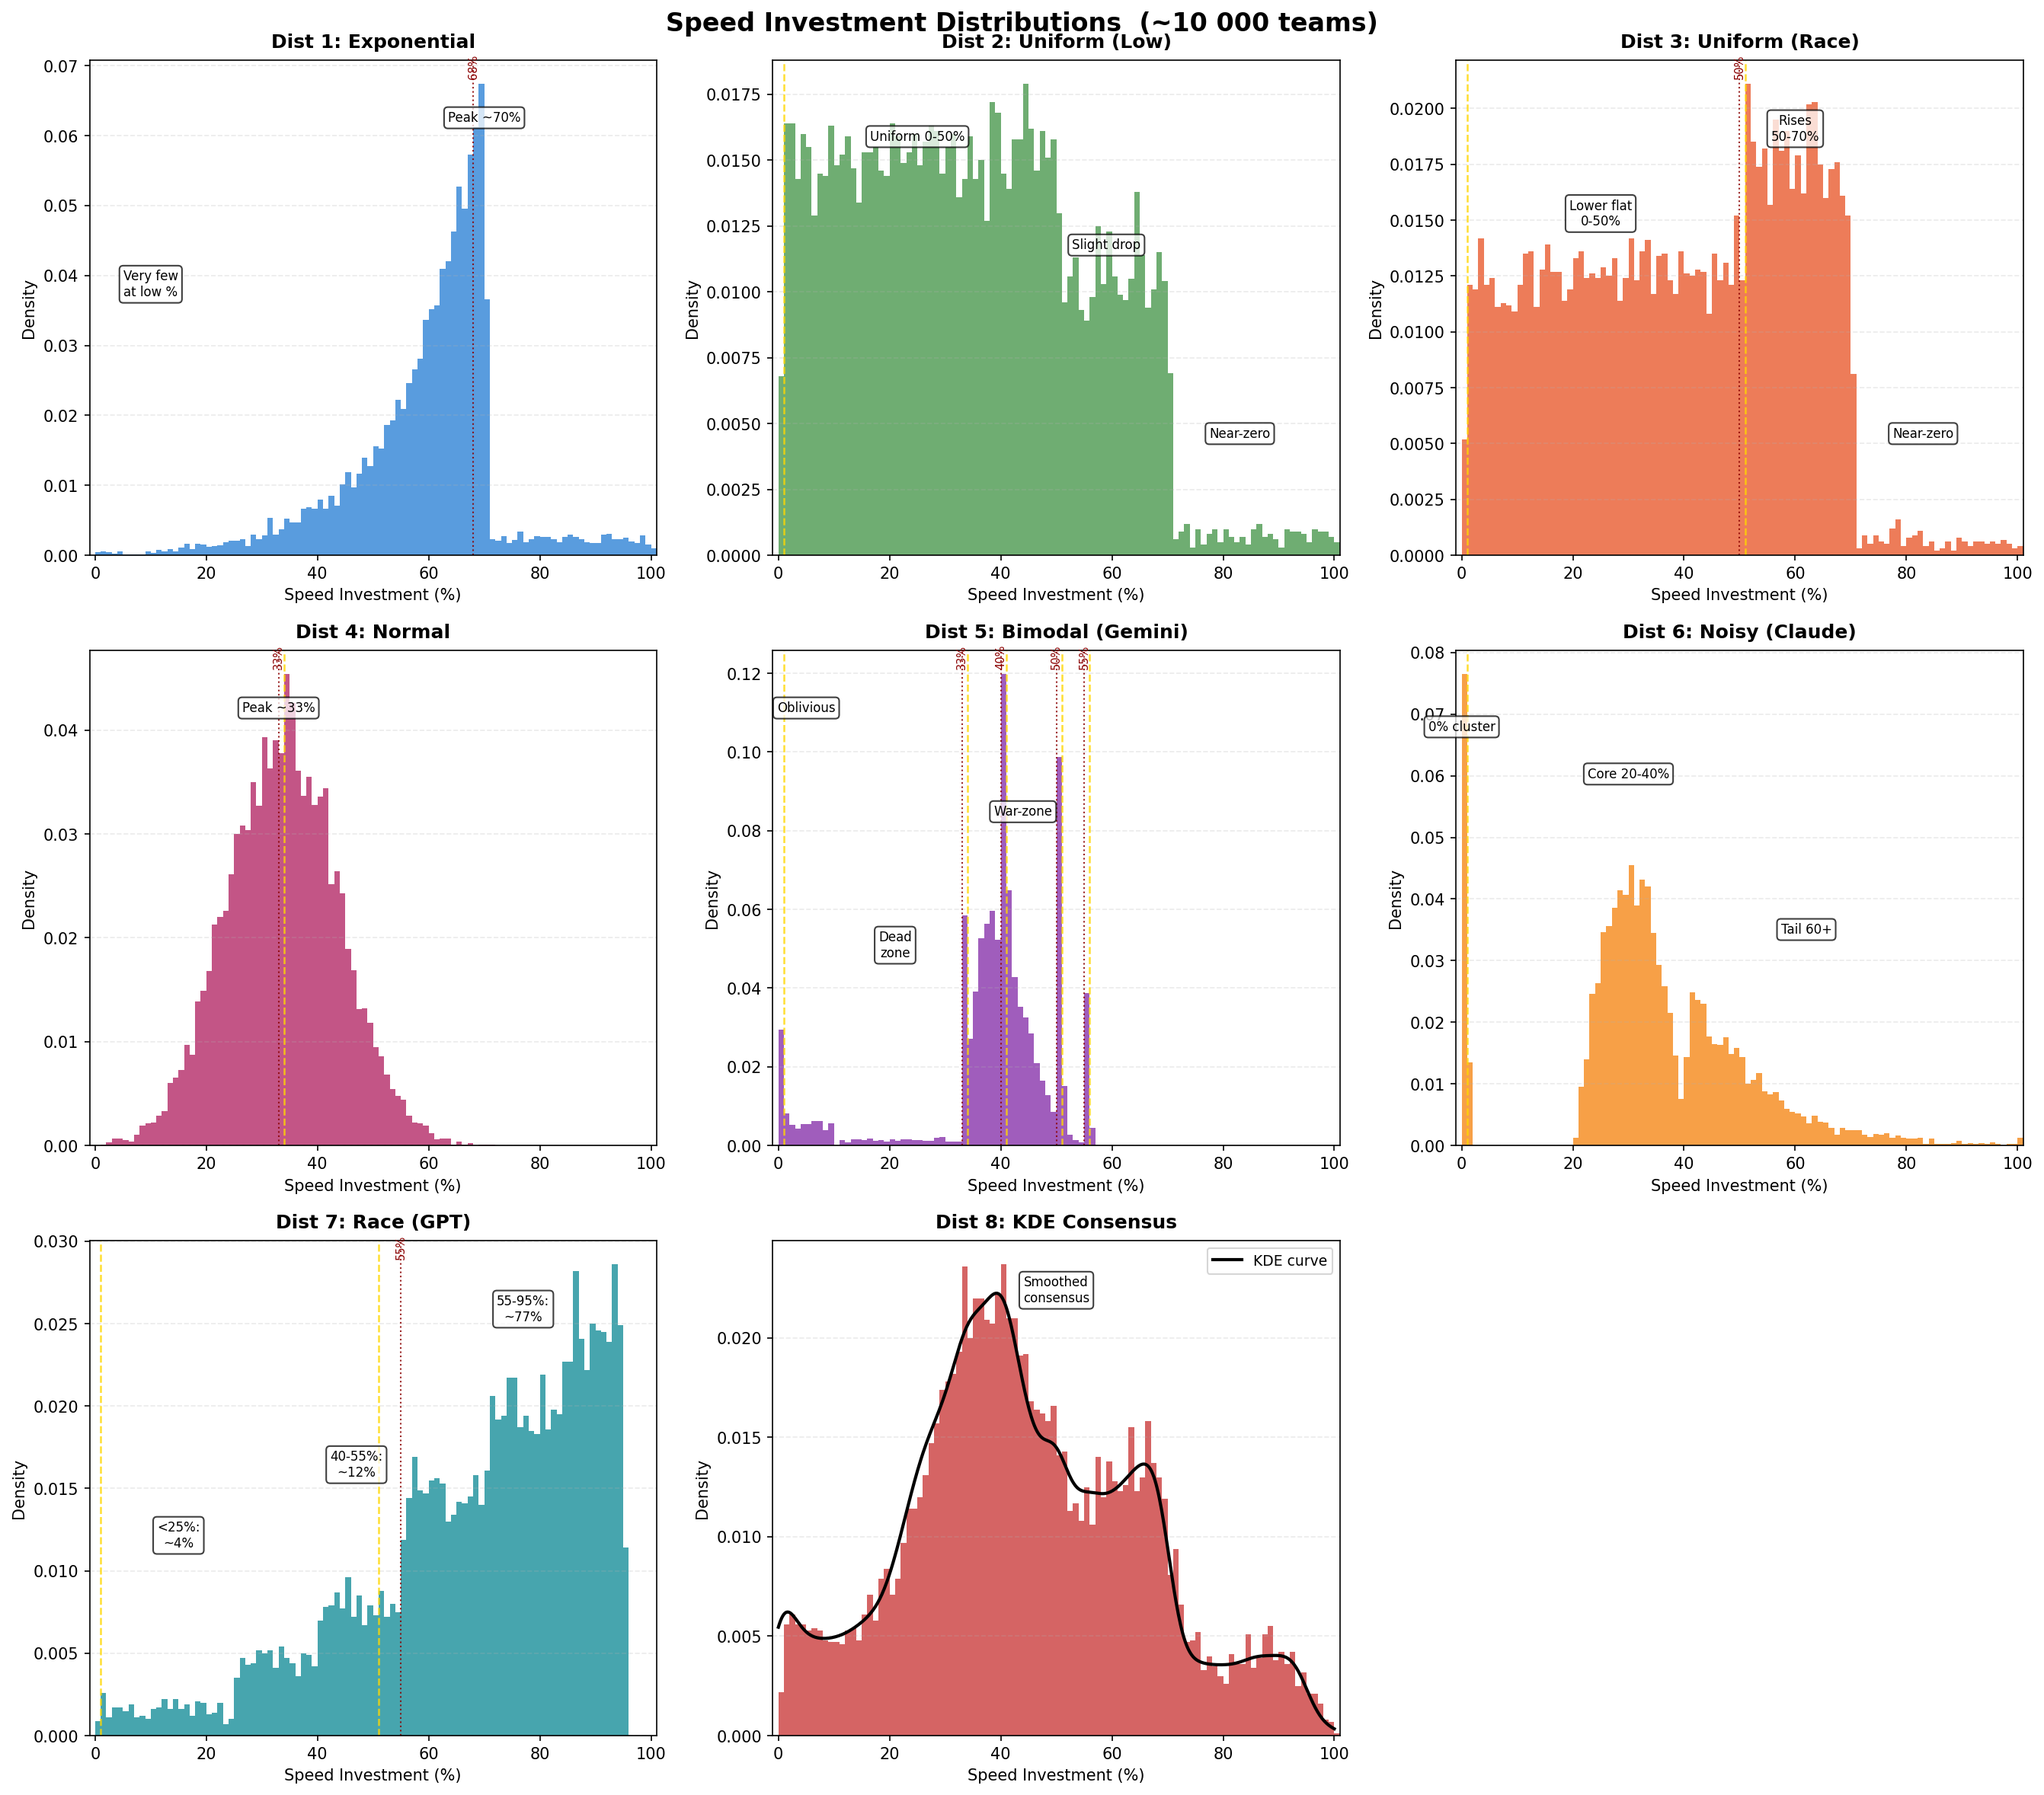
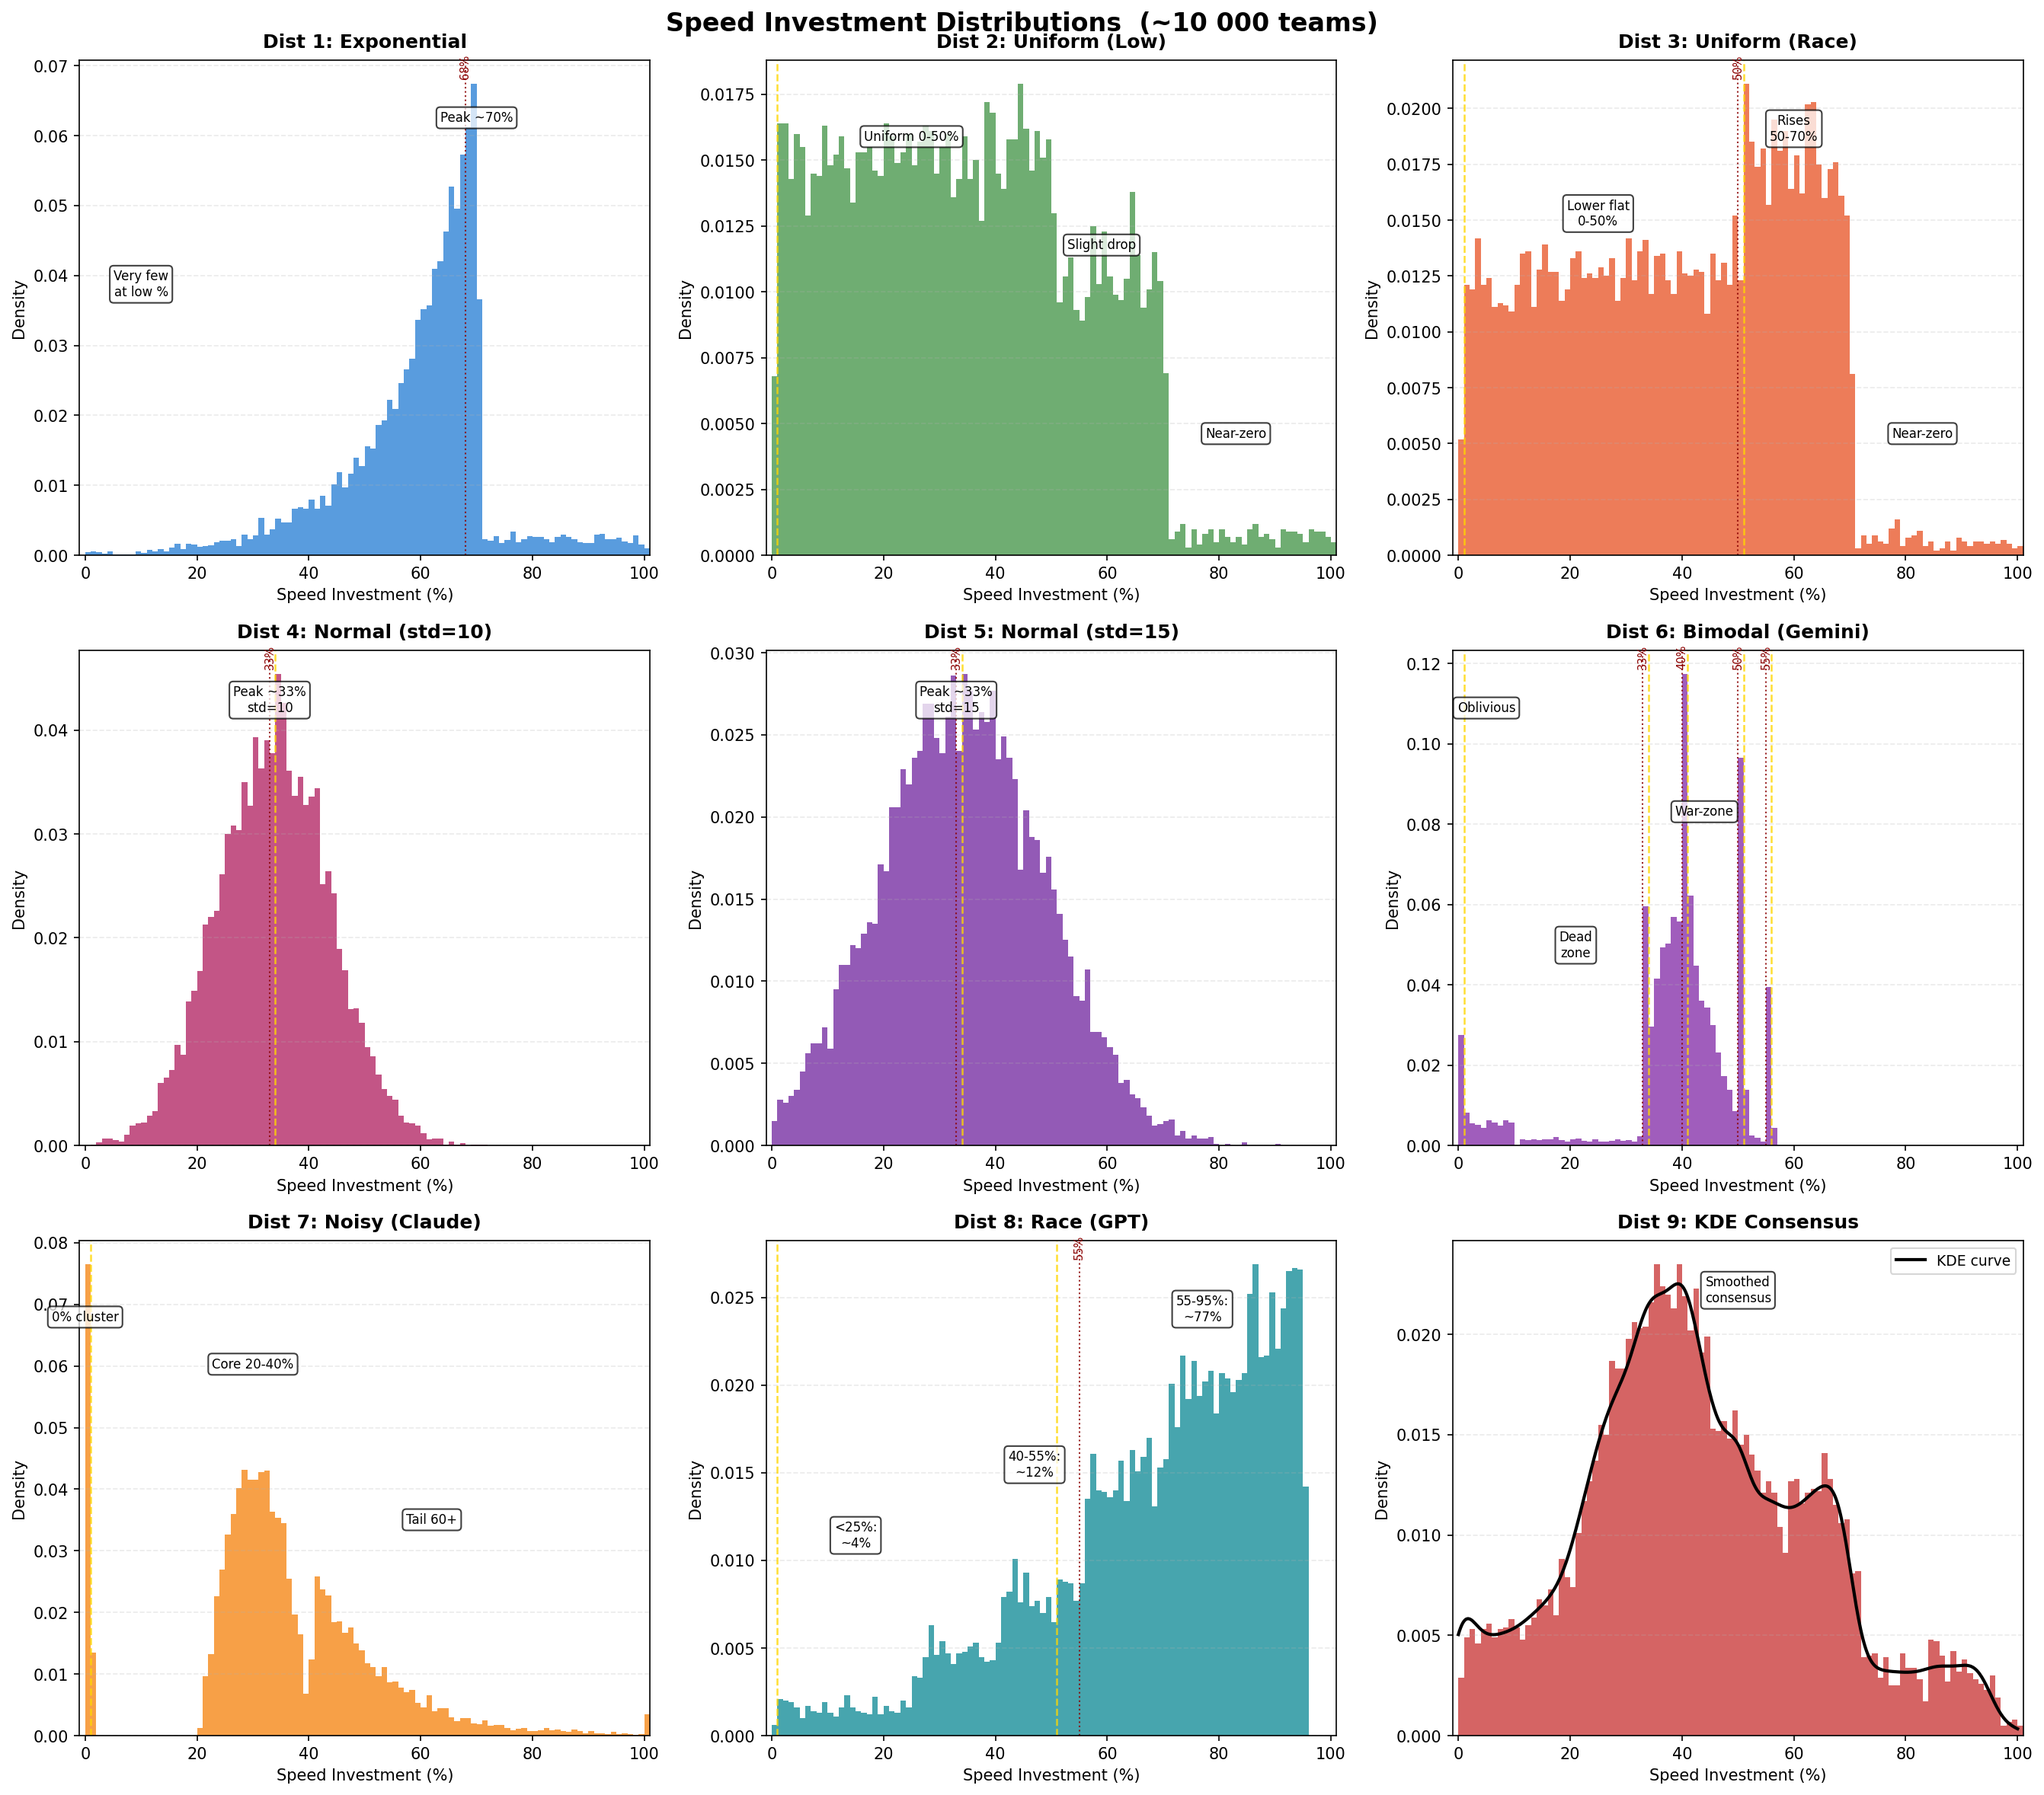
Add Dist 5 Normal (std=15), renumber Dists 5-9, update figures and README

diff --git a/ROUND2_Manual/analyze_invest.py b/ROUND2_Manual/analyze_invest.py
@@ -117,10 +117,16 @@ def gen_dist4():
     raw = np.random.normal(loc=33.33, scale=10, size=N_TEAMS * 2)
     raw = raw[(raw >= 0) & (raw <= 100)][:N_TEAMS]
     arr = np.clip(np.round(raw).astype(int), 0, 100)
-    # Off-by-one spike at 34 (edging above the 33.33% Schelling point)
     return add_offbyone_spikes(arr, [33], spike_frac=0.10)
 
 def gen_dist5():
+    """Normal distribution centered at 33.33%, std~15, truncated to [0,100]."""
+    raw = np.random.normal(loc=33.33, scale=15, size=N_TEAMS * 2)
+    raw = raw[(raw >= 0) & (raw <= 100)][:N_TEAMS]
+    arr = np.clip(np.round(raw).astype(int), 0, 100)
+    return add_offbyone_spikes(arr, [33], spike_frac=0.10)
+
+def gen_dist6():
     """Bimodal/Gemini: oblivious peak 0-10, dead zone 11-32, war-zone bulge 33-58.
     Schelling spikes at 33, 40, 50, 55 plus off-by-one edges at 34, 41, 51, 56."""
     speeds = []
@@ -142,10 +148,9 @@ def gen_dist5():
     speeds.extend(np.round(raw).astype(int))
 
     arr = np.clip(np.array(speeds, dtype=int), 0, 100)
-    # Off-by-one: players trying to edge above 0, 33, 40, 50, 55
     return add_offbyone_spikes(arr, [0, 33, 40, 50, 55], spike_frac=0.10)
 
-def gen_dist6():
+def gen_dist7():
     """Noisy/Claude: spike at 0, mass 20-40, exponential tail to 60+."""
     n_zero = int(N_TEAMS * 0.09)
     n_mid  = int(N_TEAMS * 0.57)
@@ -156,7 +161,7 @@ def gen_dist6():
     arr    = np.clip(np.round(raw).astype(int), 0, 100)
     return add_offbyone_spikes(arr, [0], spike_frac=0.15)
 
-def gen_dist7():
+def gen_dist8():
     """Race/GPT: heavy concentration 55-95%, inverse of typical distributions."""
     # From the table: 85-95=25%, 70-85=30%, 55-70=22%, 40-55=12%, 25-40=7%, <25=4%
     segments = [(85, 95, 0.25), (70, 85, 0.30), (55, 70, 0.22),
@@ -171,20 +176,20 @@ def gen_dist7():
     # Off-by-one near 50 and 0 (smaller effect here since most players are high)
     return add_offbyone_spikes(arr, [0, 50], spike_frac=0.10)
 
-# ── Generate all seven, then derive the 8th ──────────────────────────────────
+# ── Generate all eight, then derive the 9th ──────────────────────────────────
 
-COLORS = ['#1976D2', '#388E3C', '#E64A19', '#AD1457', '#7B1FA2', '#F57C00', '#00838F', '#C62828']
+COLORS = ['#1976D2', '#388E3C', '#E64A19', '#AD1457', '#6A1B9A', '#7B1FA2', '#F57C00', '#00838F', '#C62828']
 
 d1 = gen_dist1(); d2 = gen_dist2(); d3 = gen_dist3(); d4 = gen_dist4()
-d5 = gen_dist5(); d6 = gen_dist6(); d7 = gen_dist7()
+d5 = gen_dist5(); d6 = gen_dist6(); d7 = gen_dist7(); d8 = gen_dist8()
 
-def gen_dist8(all_seven):
+def gen_dist9(all_eight):
     """
-    KDE of the combined speeds from all 7 distributions.
-    Fit a gaussian_kde to the 70 000 pooled samples, then draw
+    KDE of the combined speeds from all 8 distributions.
+    Fit a gaussian_kde to the 80 000 pooled samples, then draw
     10 000 new integer samples from that smoothed distribution.
     """
-    pooled = np.concatenate(all_seven).astype(float)
+    pooled = np.concatenate(all_eight).astype(float)
     kde    = gaussian_kde(pooled, bw_method='scott')
     samples = []
     while len(samples) < N_TEAMS:
@@ -194,17 +199,18 @@ def gen_dist8(all_seven):
     arr = np.clip(np.round(np.array(samples[:N_TEAMS])).astype(int), 0, 100)
     return arr, kde
 
-d8, kde8 = gen_dist8([d1, d2, d3, d4, d5, d6, d7])
+d9, kde9 = gen_dist9([d1, d2, d3, d4, d5, d6, d7, d8])
 
 dists = [
     (d1, "Dist 1: Exponential"),
     (d2, "Dist 2: Uniform (Low)"),
     (d3, "Dist 3: Uniform (Race)"),
-    (d4, "Dist 4: Normal"),
-    (d5, "Dist 5: Bimodal (Gemini)"),
-    (d6, "Dist 6: Noisy (Claude)"),
-    (d7, "Dist 7: Race (GPT)"),
-    (d8, "Dist 8: KDE Consensus"),
+    (d4, "Dist 4: Normal (std=10)"),
+    (d5, "Dist 5: Normal (std=15)"),
+    (d6, "Dist 6: Bimodal (Gemini)"),
+    (d7, "Dist 7: Noisy (Claude)"),
+    (d8, "Dist 8: Race (GPT)"),
+    (d9, "Dist 9: KDE Consensus"),
 ]
 
 # ── Figure 1: Distribution visuals (3×3, last cell empty) ────────────────────
@@ -216,17 +222,18 @@ annot_data = [
     [(10, 0.55, "Very few\nat low %"), (70, 0.92, "Peak ~70%")],
     [(25, 0.88, "Uniform 0-50%"), (59, 0.65, "Slight drop"), (83, 0.25, "Near-zero")],
     [(25, 0.70, "Lower flat\n0-50%"), (60, 0.88, "Rises\n50-70%"), (83, 0.25, "Near-zero")],
-    [(33, 0.92, "Peak ~33%")],
+    [(33, 0.92, "Peak ~33%\nstd=10")],
+    [(33, 0.92, "Peak ~33%\nstd=15")],
     [(5, 0.92, "Oblivious"), (21, 0.40, "Dead\nzone"), (44, 0.70, "War-zone")],
     [(0, 0.88, "0% cluster"), (30, 0.78, "Core 20-40%"), (62, 0.45, "Tail 60+")],
     [(15, 0.40, "<25%:\n~4%"), (47, 0.55, "40-55%:\n~12%"), (77, 0.88, "55-95%:\n~77%")],
     [(50, 0.92, "Smoothed\nconsensus")],
 ]
 vline_data = [
-    [68], [], [50], [33], [33, 40, 50, 55], [], [55], [],
+    [68], [], [50], [33], [33], [33, 40, 50, 55], [], [55], [],
 ]
 offbyone_data = {
-    1: [1], 2: [1, 51], 3: [34], 4: [1, 34, 41, 51, 56], 5: [1], 6: [1, 51],
+    1: [1], 2: [1, 51], 3: [34], 4: [34], 5: [1, 34, 41, 51, 56], 6: [1], 7: [1, 51],
 }
 
 for idx, (dist, name) in enumerate(dists):
@@ -235,10 +242,10 @@ for idx, (dist, name) in enumerate(dists):
                            alpha=0.72, edgecolor='none', density=True)
     ymax = max(counts)
 
-    # Overlay KDE smooth curve on the 8th subplot
-    if idx == 7:
+    # Overlay KDE smooth curve on the 9th subplot
+    if idx == 8:
         x_smooth = np.linspace(0, 100, 500)
-        kde_vals  = kde8(x_smooth)
+        kde_vals  = kde9(x_smooth)
         ax.plot(x_smooth, kde_vals, color='black', lw=2.0, label='KDE curve')
         ax.legend(fontsize=9)
 
@@ -258,8 +265,7 @@ for idx, (dist, name) in enumerate(dists):
     for hv in offbyone_data.get(idx, []):
         ax.axvline(hv, color='gold', lw=1.2, linestyle='--', alpha=0.8)
 
-# Hide the unused 9th cell
-axes[2][2].set_visible(False)
+# All 9 cells used — nothing to hide
 
 plt.tight_layout()
 plt.savefig("speed_distributions.png", dpi=150, bbox_inches='tight')
@@ -313,7 +319,6 @@ print("=" * 90)
 fig, axes = plt.subplots(3, 3, figsize=(18, 16))
 fig.suptitle("Net PnL vs Speed Investment  (R and S fixed at their optimal values)",
              fontsize=14, fontweight='bold')
-axes[2][2].set_visible(False)
 
 for idx, res in enumerate(results):
     ax = axes[idx // 3][idx % 3]

diff --git a/ROUND2_Manual/README.md b/ROUND2_Manual/README.md
@@ -49,11 +49,15 @@ Similar to Dist 2 but the **50–70% band is denser than 0–50%** — a partial
 
 > More competitive than Dist 2 but not a full GPT-style arms race.
 
-### Distribution 4 — Normal
+### Distribution 4 — Normal (std=10)
 
-A normal distribution centered at **33.33%** (the even split) with standard deviation ~10%. Represents teams that rationally converge on a "fair" allocation but with natural spread around that anchor. An off-by-one spike at 34% from players trying to edge above the 33% Schelling point.
+A normal distribution centered at **33.33%** with standard deviation ~10%. Represents teams converging tightly on the "fair" even split. Off-by-one spike at 34% from players edging above the Schelling point. 68% of teams fall between **23–43%**.
 
-### Distribution 5 — Bimodal (Gemini)
+### Distribution 5 — Normal (std=15)
+
+Same center at **33.33%** but with standard deviation ~15% — a wider, flatter bell. Represents a more dispersed version of the same rational convergence. 68% of teams fall between **18–48%**, with meaningful mass reaching into the 50–60% range.
+
+### Distribution 6 — Bimodal (Gemini)
 
 A psychologically-shaped distribution with three zones:
 
@@ -64,13 +68,13 @@ A psychologically-shaped distribution with three zones:
 
 > Bidding exactly 50% lands in a massive rank collision but still nets a strong multiplier (~0.85) because so many others cluster there too.
 
-### Distribution 6 — Noisy (Claude)
+### Distribution 7 — Noisy (Claude)
 
 - **Spike at 0%:** ~9% of teams reason through the math and skip Speed.
 - **Core mass at 20–40%:** the hedgers (~57%).
 - **Exponential tail to 60+%:** the speed-dominant players (~34%).
 
-### Distribution 7 — Race (GPT)
+### Distribution 8 — Race (GPT)
 
 A full arms-race scenario. ~77% of all teams invest between **55–95%** in Speed.
 
@@ -85,9 +89,9 @@ A full arms-race scenario. ~77% of all teams invest between **55–95%** in Spee
 
 > Even investing 59% only yields a 0.34 speed multiplier. R and S are so starved that Net PnL collapses.
 
-### Distribution 8 — KDE Consensus
+### Distribution 9 — KDE Consensus
 
-A **Gaussian KDE** fitted to all 70,000 pooled samples from Distributions 1–7, then resampled to 10,000. Represents a "no strong prior" hedge — the expected distribution if all seven models are equally likely.
+A **Gaussian KDE** fitted to all 80,000 pooled samples from Distributions 1–8, then resampled to 10,000. Represents a "no strong prior" hedge — the expected distribution if all eight models are equally likely.
 
 > The smooth KDE curve is overlaid on the histogram in the visualization.
 
@@ -111,11 +115,12 @@ Grid search over all integer (r, s, v) with r + s + v ≤ 100. Optimization is f
 | Dist 1: Exponential | 9% | 22% | 69% | 0.816 | 125,356 | 75,356 |
 | Dist 2: Uniform (Low) | 15% | 46% | 39% | 0.580 | 224,335 | 174,335 |
 | Dist 3: Uniform (Race) | 16% | 48% | 36% | 0.466 | 192,309 | 142,309 |
-| **Dist 4: Normal** | **14%** | **42%** | **44%** | **0.799** | **275,523** | **225,523** |
-| Dist 5: Bimodal (Gemini) | 13% | 37% | 50% | 0.849 | 251,587 | 201,587 |
-| Dist 6: Noisy (Claude) | 16% | 47% | 37% | 0.610 | 246,277 | 196,277 |
-| Dist 7: Race (GPT) | 11% | 29% | 60% | 0.351 | 76,755 | 26,755 |
-| Dist 8: KDE Consensus | 14% | 41% | 45% | 0.547 | 184,195 | 134,195 |
+| **Dist 4: Normal (std=10)** | **14%** | **42%** | **44%** | **0.799** | **275,523** | **225,523** |
+| Dist 5: Normal (std=15) | 15% | 42% | 43% | 0.699 | 247,048 | 197,048 |
+| Dist 6: Bimodal (Gemini) | 13% | 37% | 50% | 0.850 | 251,658 | 201,658 |
+| Dist 7: Noisy (Claude) | 16% | 47% | 37% | 0.609 | 245,922 | 195,922 |
+| Dist 8: Race (GPT) | 14% | 39% | 47% | 0.237 | 75,969 | 25,969 |
+| Dist 9: KDE Consensus | 14% | 42% | 44% | 0.560 | 193,242 | 143,242 |
 
 ---
 
@@ -127,13 +132,15 @@ Grid search over all integer (r, s, v) with r + s + v ≤ 100. Optimization is f
 
 **Speed is the pivotal decision.** The optimal Speed allocation ranges from 36% (Dist 3) to 69% (Dist 1) depending on the competitive environment.
 
-**Best case: Dist 4 (Normal) — Net PnL 225,523.** Teams converging on ~33% speed creates a favorable environment: investing 44% lands you well above the crowd with a strong 0.80 multiplier while still leaving room for R and S.
+**Best case: Dist 4 (Normal std=10) — Net PnL 225,523.** Teams tightly converging on ~33% speed lets you invest 44% and land well above the crowd with a strong 0.80 multiplier.
 
-**Second best: Dist 5 (Bimodal/Gemini) — Net PnL 201,587.** Investing exactly 50% exploits the Schelling-point collision: you share rank with many others but still land a ~0.85 multiplier.
+**Dist 5 (Normal std=15) — Net PnL 197,048.** The wider spread dilutes the advantage — more teams reach into the 40–50% range, compressing your speed multiplier to 0.70.
 
-**Worst case: Dist 7 (Race/GPT) — Net PnL 26,755.** A full arms race destroys value for everyone. Even the optimal counter-strategy only captures a 0.35 speed multiplier.
+**Dist 6 (Bimodal/Gemini) — Net PnL 201,658.** Investing exactly 50% exploits the Schelling-point collision for a ~0.85 multiplier.
 
-**KDE Consensus (Dist 8) suggests R=14%, S=41%, V=45%** as a reasonable hedge if you have no strong belief about which distribution is correct. Net PnL of ~134k now incorporates all seven scenarios including the Normal distribution.
+**Worst case: Dist 8 (Race/GPT) — Net PnL 25,969.** A full arms race destroys value for everyone. Even the optimal counter-strategy only captures a 0.24 speed multiplier.
+
+**KDE Consensus (Dist 9) suggests R=14%, S=42%, V=44%** as a reasonable hedge across all eight scenarios. Net PnL of ~143k.
 
 ---
 
